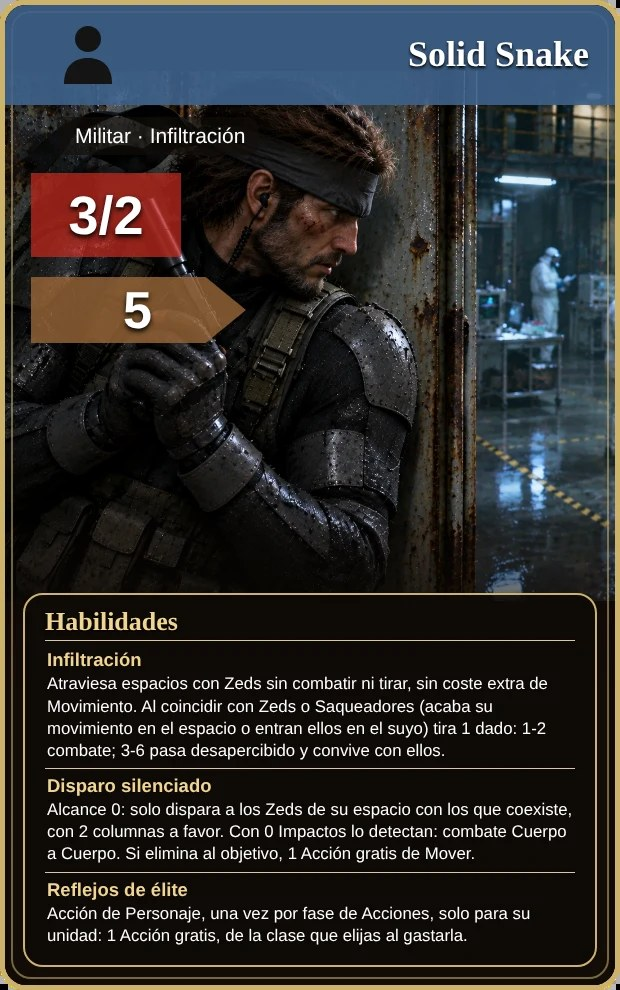
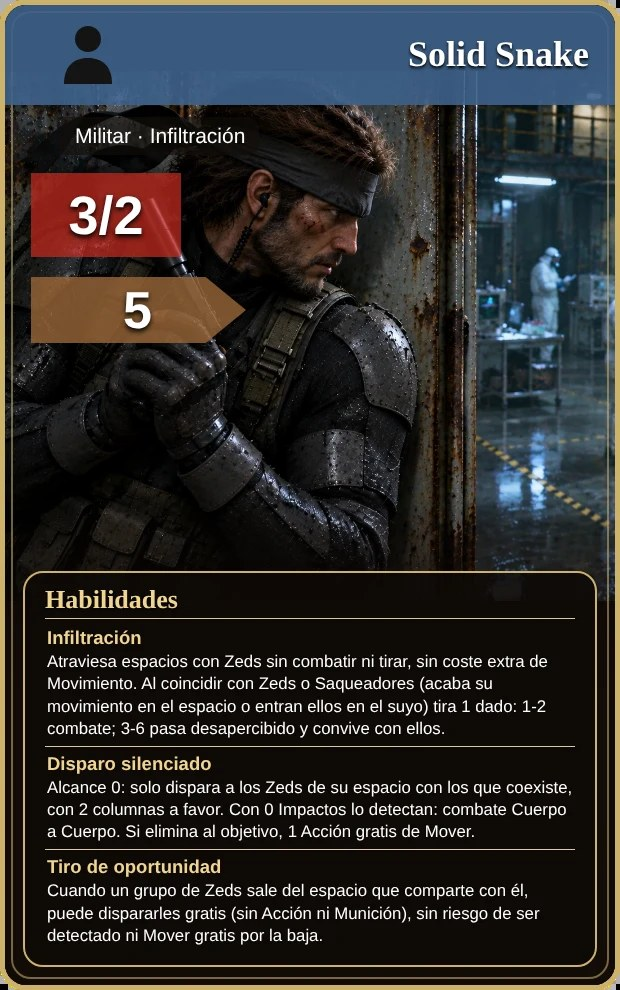
Solid Snake: Tiro de oportunidad (disparo gratis a los Zeds que salen de su espacio); se quita Reflejos de élite
Claude-Session: https://claude.ai/code/session_01KmRiLcYw81ZWXjSnc4kn6e

Changed region(s): [[0.0306, 0.5758, 0.9806, 0.9697]]

diff --git a/js/engine.js b/js/engine.js
@@ -911,10 +911,21 @@ function fireStrength(u, d) {
   if (u.key === 'staub' && u.flipped) return 2;
   return strength(u);
 }
+/* Solid Snake, Tiro de oportunidad: cuando un grupo de Zeds sale del espacio que comparte con él, puede dispararles gratis (sin Acción ni Munición).
+   Es un disparo reactivo: sin riesgo de ser detectado y sin Mover gratis por la baja. Devuelve los Zeds del grupo que siguen en el espacio. */
+async function tiroOportunidad(u, from, go) {
+  if (!u || u.space !== from || G.over) return go;
+  const zs = go.filter(z => z.space === from && G.units[z.id]); if (!zs.length) return go;
+  if (fireTargets(u)[from] === undefined) return go;  /* respeta los eventos que impiden disparar */
+  const v = await UI.choose({ title: 'Tiro de oportunidad', text: 'Los Zeds de ' + spaceLabel(from) + ' se van. ¿Solid Snake les dispara gratis (sin Acción ni Munición)?', options: [{ label: 'Disparar', value: 'y' }, { label: 'Dejarlos ir', value: 'n' }] });
+  if (v !== 'y') return go;
+  await doFire(u, from, 0, { targets: zs, reactive: true });
+  return go.filter(z => z.space === from && G.units[z.id]);
+}
 async function doFire(u, targetId, dist, opts) {
   opts = opts || {};
   await UI.fxShot(u, targetId, dist);
-  const zs = zedsAt(targetId); let target = zs[0];
+  const zs = opts.targets || zedsAt(targetId); let target = zs[0];
   if (zs.length > 1) { const v = await UI.askZeds({ title: 'Objetivo', text: 'Elige la unidad Zed objetivo.', spaces: zs.map(z => z.space), options: zs.map(z => ({ label: zedLabel(z), value: z.id })) }); target = G.units[v]; }
   let str = opts.str || fireStrength(u, dist); const shifts = [];
   if (G.turn.combineFire && !opts.str) { const mates = unitsAt(u.space).filter(x => x !== u && isFighter(x) && !x.nofire && fireRange(x) >= dist); if (mates.length) { str += mates.reduce((a, x) => a + fireStrength(x, dist), 0); LOG('Plan de guerra negro: ' + mates.map(x => x.name).join(', ') + ' suman su Fuerza (' + str + ').', 'good'); } }
@@ -949,7 +960,7 @@ async function doFire(u, targetId, dist, opts) {
   if (hits) { ACTOR = u.id; try { await applyZedHits([target], hits); } finally { ACTOR = null; } if (u.key === 'caza' && target && (!G.units[target.id] || !target.space)) { G.ammo = Math.min(20, G.ammo + 1); LOG('Trofeo: el Club de Caza recupera 1 Munición.', 'good'); UI.updateStats(); } if (hits >= 2 && weaponFor(u, 'balas')) { const left = zedsAt(targetId); if (left.length) await retreatZeds(left, zedOrigin(left[0])); } }
   else LOG('El disparo no impacta.');
   /* Solid Snake: 0 Impactos = lo detectan (combate Cuerpo a Cuerpo con los Zeds del espacio); si elimina al objetivo, 1 Acción gratis de Mover. */
-  if (u.key === 'snake' && dist === 0 && u.space && !G.over) {
+  if (u.key === 'snake' && dist === 0 && u.space && !G.over && !opts.reactive) {
     const killed = !target || !G.units[target.id] || !target.space;
     if (!hits) { const left = zedsAt(targetId); if (left.length) { LOG('Solid Snake ha sido detectado: combate Cuerpo a Cuerpo.', 'bad'); await melee({ zeds: left, hum: [u], space: targetId, attacker: 'h' }); } }
     else if (killed) { u.freeM = (u.freeM || 0) + 1; LOG('Baja silenciosa: Solid Snake recibe 1 Acción gratis de Mover.', 'good'); UI.redraw(); }

diff --git a/js/expansions.js b/js/expansions.js
@@ -37,7 +37,7 @@ Object.assign(HEROES, {
   caza: { name: 'Club de Caza de Farmingdale', type: 'civh', cls: 'Civiles Heroicos', full: 3, red: 2, mp: 3, img: 'caza', card: 'h_caza', lv: 2, exp: 4, hf: 2, hr: 2,
     txt: ['<b>Puesto de caza:</b> disparan a 2 espacios sin penalización de columna.', '<b>Trofeo:</b> cuando su disparo elimina a una unidad Zed, recuperan 1 Munición.', '<b>Presa marcada:</b> Acción de Personaje (1 Acción), una vez por turno: marcan una unidad Zed a su alcance. Los disparos de cualquier unidad de jugador contra ella tienen 1 columna a favor hasta que sea eliminada o termine el turno.', '<b>A campo abierto:</b> tienen 1 columna en contra en combates Cuerpo a Cuerpo.'] },
   snake:     { name: 'Solid Snake',        type: 'hero', cls: 'Militar',    full: 3, red: 2, mp: 5, img: 'snake', card: 'h_snake', lv: 1, exp: 4,
-    txt: ['<b>Infiltración:</b> puede atravesar espacios con Zeds sin combatir ni tirar, y sin coste extra de Movimiento. Al coincidir con Zeds o Saqueadores (porque acaba su movimiento en el espacio o porque entran ellos en el suyo) tira 1 dado: 1-2 combate normal; 3-6 pasa desapercibido y convive con ellos sin combatir.', '<b>Disparo silenciado:</b> solo dispara a los Zeds de su propio espacio con los que coexiste sin combatir (alcance 0), con 2 columnas a favor. Si el disparo hace 0 Impactos, lo detectan: pierde el sigilo y hay combate Cuerpo a Cuerpo. Si elimina al objetivo, recibe 1 Acción gratis de Mover.', '<b>Reflejos de élite:</b> una Acción de Personaje por fase de Acciones, solo para su unidad: 1 Acción gratis, de la clase que elijas al gastarla.'] },
+    txt: ['<b>Infiltración:</b> puede atravesar espacios con Zeds sin combatir ni tirar, y sin coste extra de Movimiento. Al coincidir con Zeds o Saqueadores (porque acaba su movimiento en el espacio o porque entran ellos en el suyo) tira 1 dado: 1-2 combate normal; 3-6 pasa desapercibido y convive con ellos sin combatir.', '<b>Disparo silenciado:</b> solo dispara a los Zeds de su propio espacio con los que coexiste sin combatir (alcance 0), con 2 columnas a favor. Si el disparo hace 0 Impactos, lo detectan: pierde el sigilo y hay combate Cuerpo a Cuerpo. Si elimina al objetivo, recibe 1 Acción gratis de Mover.', '<b>Tiro de oportunidad:</b> cuando un grupo de Zeds sale del espacio que comparte con él, puede dispararles gratis (sin Acción ni Munición) con las reglas del Disparo silenciado, sin riesgo de ser detectado ni Mover gratis por la baja. Los supervivientes avanzan.'] },
 });
 CIVH_POOL.push('jaque', 'sar', 'caza', 'brigada');
 const EXP_HEROES = { 1: ['carter', 'lee', 'may'], 2: ['betty'], 4: ['porter', 'alia', 'bender', 'ash', 'frank', 'doc', 'samcarter', 'macgyver', 'heli', 'snake'] };

diff --git a/js/actions.js b/js/actions.js
@@ -196,7 +196,6 @@ function unitActions(u) {
   if (act && !isSoft(u)) {
     const cu = k => !G.charUsed[k];
     if (u.key === 'schmidt') A.push({ id: 'ini', label: 'Iniciativa', ok: cu('ini') });
-    if (u.key === 'snake') A.push({ id: 'reflejos', label: 'Reflejos de élite', ok: cu('reflejos') });
     if (u.key === 'jones') A.push({ id: 'planes', label: 'Sus Propios Planes', ok: cu('planes') });
     if (u.key === 'jones' && G.res && u.space && sp(u.space).kind === 'office') A.push({ id: 'jhosp', label: 'Sus Propios Planes: paciente al Cementerio + Investigación', ok: cu('planes') && G.res.deck.length > 0 && hospitalUnits(u).length > 0 });
     if (u.key === 'hunt') A.push({ id: 'lid', label: 'Liderazgo', ok: cu('lid') });
@@ -257,7 +256,6 @@ async function runAction(u, id) {
     case 'visions': await UI.willyVisions(); break;
     case 'bcure': G.supplies--; healUnit(u); u.curedTurn = G.turnNo; LOG(u.name + ' se repara en el Centro (−1 Suministro).', 'good'); UI.redraw(); UI.updateStats(); break;
     case 'jhosp': { const c = hospitalUnits(u); if (!c.length) break; const v = await UI.pickUnit(c, 'Jones: elige la unidad del Hospital que va al Cementerio.', true); if (v == null) break; G.charUsed.planes = true; await sendCemetery(G.units[v], 'es trasladada al Cementerio por Jones'); await revealResearch(); break; }
-    case 'reflejos': G.charUsed.reflejos = true; u.free++; LOG('Solid Snake usa Reflejos de élite: 1 acción gratis para él.', 'good'); break;
     case 'planes': G.charUsed.planes = true; u.free++; LOG('Jones usa Sus Propios Planes: 1 acción gratis para él.', 'good'); break;
     case 'calle': { const c = calleTargets(u); if (!c.length) { LOG('No hay Civiles que puedan avanzar.'); break; } const v = c.length === 1 ? c[0].id : await UI.pickUnit(c, 'Elige la unidad que avanza hacia el Centro.', true); if (v == null) break; const x = G.units[v], ds = calleDests(x); const d = ds.length === 1 ? ds[0] : await UI.pickSpace(ds, 'Alia: elige el destino de ' + x.name + ' (hasta 2 espacios hacia el Centro).', true); if (d == null) break; G.charUsed.calle = true; if (x.resist) { x.resist = false; LOG(x.name + ' deja de estar Resistiendo.'); } LOG('Alia manda a ' + x.name + ' hacia el Centro.', 'good'); await doMove(x, d, [x.space, d]); break; }
     case 'despejar': {

diff --git a/js/phases.js b/js/phases.js
@@ -148,6 +148,9 @@ async function moveGroup(movers, from, opts) {
       go = go.filter(z => z.space && G.units[z.id]); if (!go.length) { UI.redraw(); return { moved: true }; }
     }
   }
+  /* Solid Snake, Tiro de oportunidad: dispara gratis a los Zeds que salen del espacio que comparte con ellos. */
+  const snk = unitsAt(from).find(u => u.key === 'snake');
+  if (snk && go.length) { go = await tiroOportunidad(snk, from, go); if (!go.length) { UI.redraw(); return { moved: true }; } }
   UI.focus(dest); for (const z of go) { putUnit(z, dest); z.moved = true; }
   LOG((go.length > 1 ? 'Horda Zed (' + go.map(zF).join('+') + ')' : go[0].name + ' (' + zF(go[0]) + ')') + ' avanza a ' + spaceLabel(dest) + '.', 'zed');
   UI.redraw(); await UI.settle();
